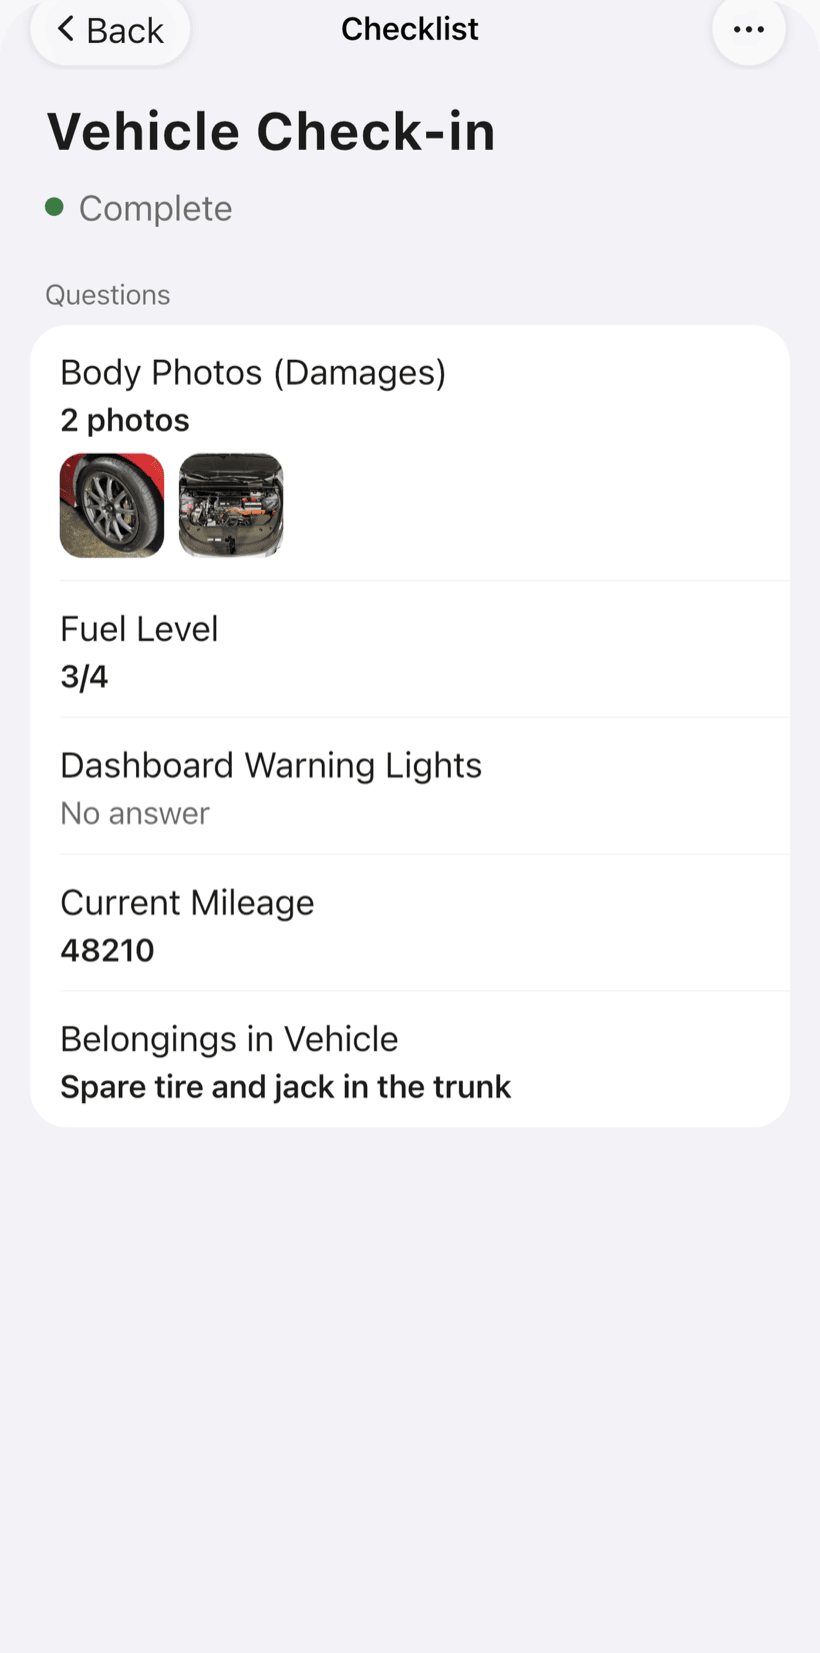
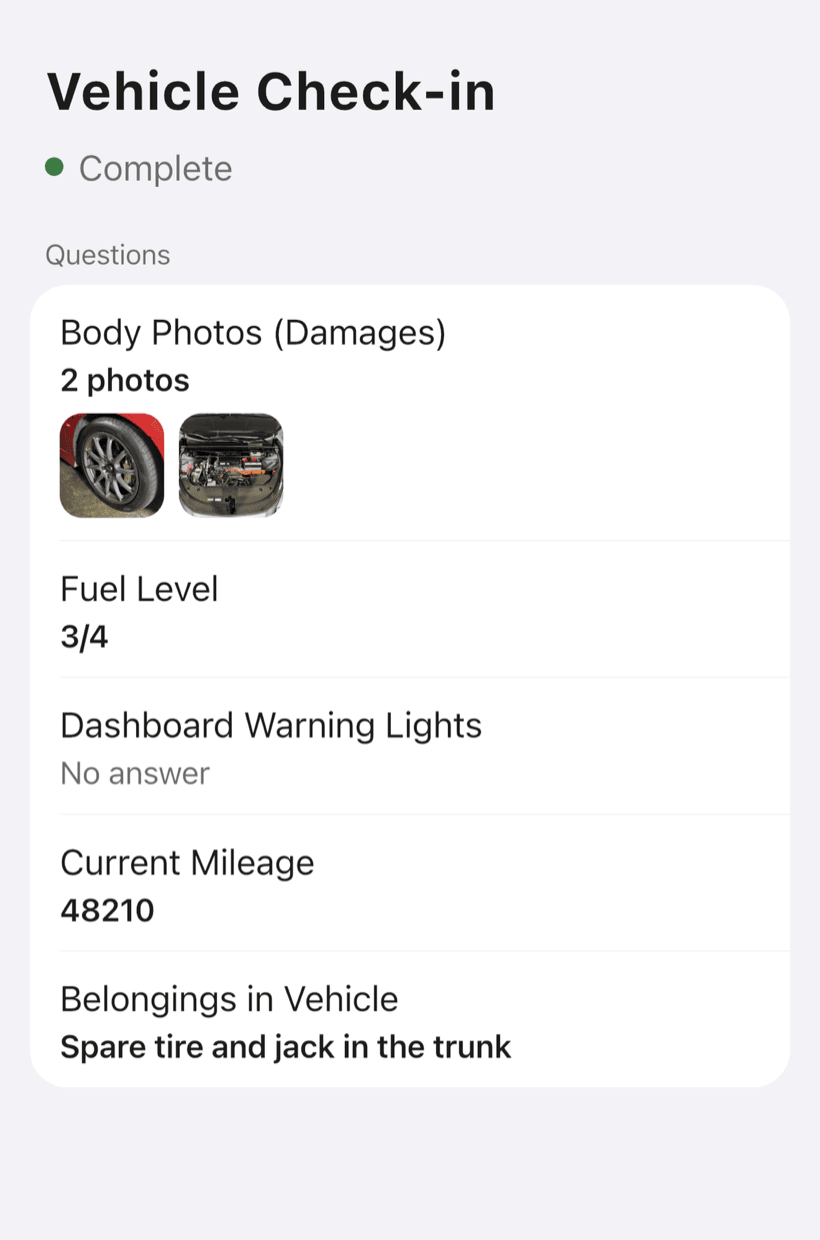
fix(site): corrige os recortes dos prints do app
Os prints traziam restos da tela de tras e botoes cortados no topo, e
terminavam em alturas diferentes, sem borda embaixo. Agora as cinco telas
tem o mesmo tamanho, comecam no titulo e nunca cortam uma linha ao meio, e
o quadro mostra a tela inteira com os quatro cantos arredondados.

diff --git a/firebase/hosting/src/css/home.css b/firebase/hosting/src/css/home.css
@@ -61,7 +61,7 @@
 .tabs button:hover { background: var(--color-paper-3); }
 .tabs button:active { transform: translateY(1px); }
 .tabs button[aria-selected="true"] { background: var(--color-navy); color: var(--color-on-navy); }
-.panel { display: grid; grid-template-columns: minmax(0, 1fr) minmax(0, 1.15fr); gap: var(--space-xl); align-items: end; background: var(--color-paper-2); border-radius: var(--radius-card); margin-top: var(--space-md); padding-inline: clamp(24px, 5vw, 64px); overflow: hidden; }
+.panel { display: grid; grid-template-columns: minmax(0, 1fr) minmax(0, 1.15fr); gap: var(--space-xl); align-items: center; background: var(--color-paper-2); border-radius: var(--radius-card); margin-top: var(--space-md); padding-inline: clamp(24px, 5vw, 64px); overflow: hidden; }
 .panel[hidden] { display: none; }
 .panel__copy { padding-block: var(--space-xl); align-self: center; }
 .panel h3 { font-size: clamp(1.6rem, 1.35rem + 1vw, 2.2rem); line-height: 1.12; letter-spacing: -0.01em; }
@@ -69,7 +69,8 @@
 .panel ul { margin-top: var(--space-sm); display: grid; gap: var(--space-2xs); max-width: 46ch; }
 .panel li { position: relative; padding-left: 26px; color: var(--color-ink); font-weight: 500; }
 .panel li::before { content: ""; position: absolute; left: 2px; top: 0.34em; width: 13px; height: 7px; border-left: 3px solid var(--color-success); border-bottom: 3px solid var(--color-success); transform: rotate(-45deg); }
-.panel__shot { justify-self: center; width: min(100%, 20rem); height: 27rem; margin: var(--space-xl) 0 0; border: var(--rule); border-bottom: 0; border-radius: var(--radius-card) var(--radius-card) 0 0; overflow: hidden; background: var(--color-card); box-shadow: var(--shadow-card); }
+.panel__shot { justify-self: center; width: min(100%, 20rem); margin-block: var(--space-xl); border: var(--rule); border-radius: 20px; overflow: hidden; background: var(--color-card); box-shadow: var(--shadow-card); }
+.panel__shot img { width: 100%; height: auto; }
 
 /* ---------- AI ---------- */
 .ai { padding-block: var(--space-2xl) var(--space-3xl); }
@@ -118,7 +119,7 @@
   .work { padding-block: var(--space-2xl); }
   .panel { grid-template-columns: minmax(0, 1fr); gap: 0; }
   .panel__copy { padding-block: var(--space-lg) 0; }
-  .panel__shot { margin-top: var(--space-lg); height: 23rem; width: min(100%, 17.5rem); }
+  .panel__shot { margin-block: var(--space-lg); width: min(100%, 17.5rem); }
   .tabs { flex-wrap: nowrap; overflow-x: auto; margin-inline: calc(var(--page-gutter) * -1); padding-inline: var(--page-gutter); padding-block: var(--space-3xs); scrollbar-width: none; }
   .tabs button { flex: none; }
   .ai { padding-block: var(--space-lg) var(--space-2xl); }

diff --git a/firebase/hosting/src/css/feature.css b/firebase/hosting/src/css/feature.css
@@ -14,7 +14,6 @@
 .fx-hero .lede { margin-top: var(--space-md); }
 .fx-hero .btn-row { margin-top: var(--space-lg); }
 .fx-hero__shot { width: min(100%, 17rem); justify-self: start; }
-.fx-hero__shot:not(.fx-hero__shot--demo) img { aspect-ratio: 9 / 14; object-fit: cover; object-position: top; }
 @media (min-width: 60rem) {
   .fx-hero { padding-top: var(--space-3xl); }
   .fx-hero__grid { grid-template-columns: minmax(0, 7fr) minmax(0, 5fr); gap: var(--space-xl); }

diff --git a/firebase/hosting/design.md b/firebase/hosting/design.md
@@ -102,6 +102,8 @@ tokens, never raw values. Page width `--page-max` 74rem, gutter `--page-gutter`.
   "Imagens ilustrativas" note beside them, never attach a name, company or
   testimonial, and replace them with authorized customer photos as they arrive.
 - Every trade in the app's seed has a page and a reel photo.
+- App screens appear whole, 820 x 1240, with all four corners rounded: no bleed
+  off the panel, no clipped navigation, no row cut through.
 - Content pages: typography only; tables and callouts use rules, not cards.
 
 ## What pages MUST share
